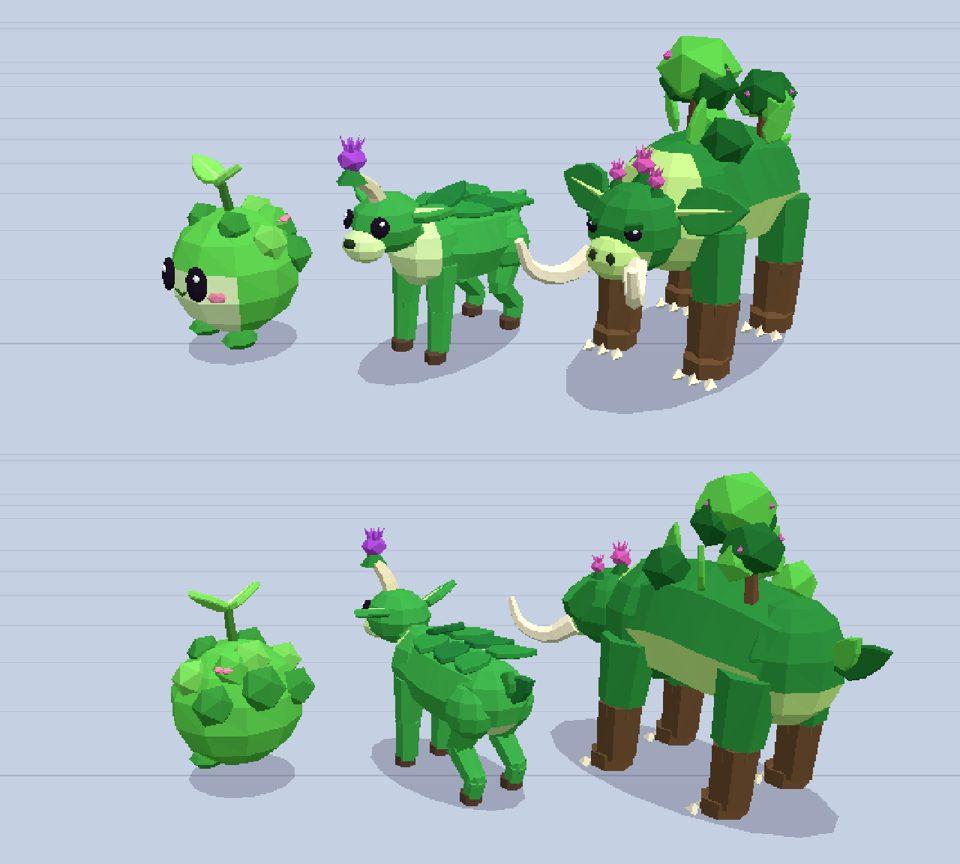
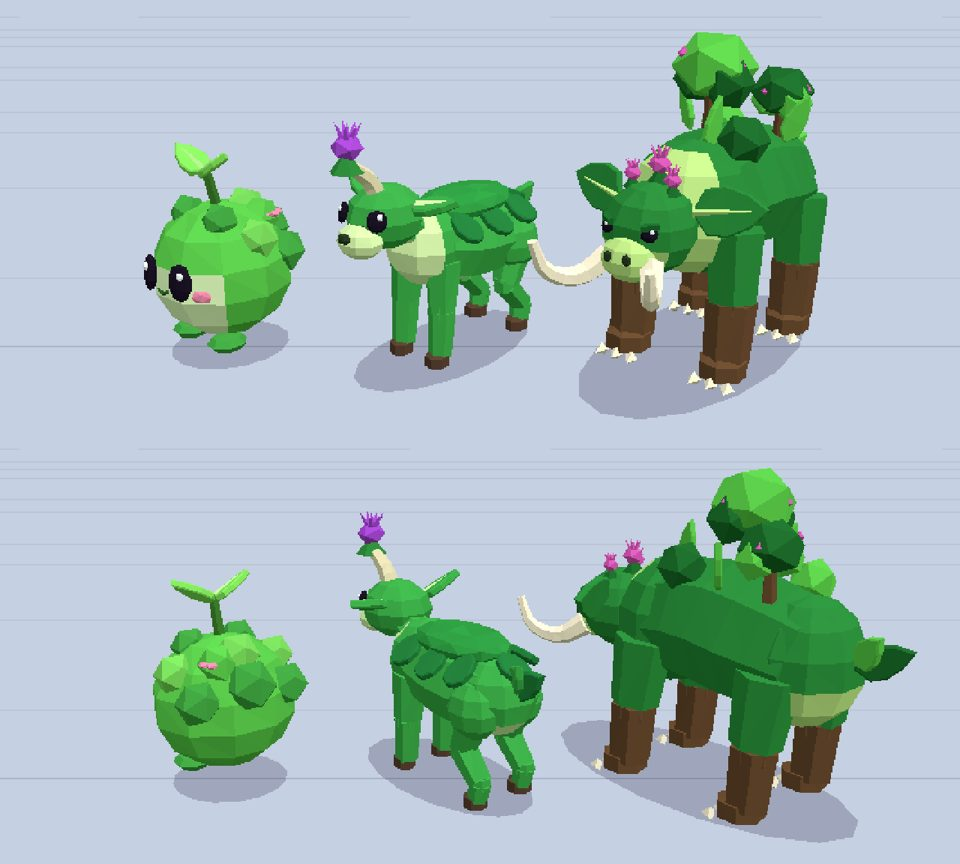
creatures: final polish round — twist-free tubes + per-quad paint (clean Maelstrode belly), Thistlehorn moss mantle, new static-firefly Flickwing, Pebblet/Vulcrag/Mossling cleanups, tight gallery framing; DECISIONS pointer to CREATURES.md
Claude-Session: https://claude.ai/code/session_016JXtcKyTyuZAwfXm5uVZkS

diff --git a/game/src/render/creatures/designs.ts b/game/src/render/creatures/designs.ts
@@ -280,7 +280,7 @@ const maelstrode: Design = {
 const mossling: Design = {
   scale: 0.9, idle: 'bounce',
   build(k) {
-    const main = '#5cc94a', light = '#e9ffc0', dark = '#3a9a3a', pink = '#ff8fb0';
+    const main = '#5cc94a', light = '#e9ffc0', dark = '#43a641', pink = '#ff8fb0';
     const body = k.orb((n, c) => (n.z > 0.5 && c.y < 0.48 ? light : main), [0, 0.42, 0], [0.42, 0.38, 0.4], { w: 10, h: 7, jitter: 0.12 });
     const clumps: [number, number, number, Col][] = [[Math.PI, 0.45, 0.15, dark], [2.3, 0.25, 0.13, dark], [-2.3, 0.25, 0.13, dark], [1.7, 0.6, 0.12, '#7ad85a'], [-1.7, 0.6, 0.12, '#7ad85a'], [Math.PI, 1.0, 0.13, '#7ad85a'], [1.0, 1.05, 0.11, dark], [-1.0, 1.05, 0.11, dark], [2.6, 0.85, 0.12, main]];
     for (const [yaw, pitch, r, c] of clumps) k.ball(c, surface(body, yaw, pitch, 0.92).p, r, { detail: 0, jitter: 0.15 });
@@ -307,13 +307,12 @@ const thistlehorn: Design = {
     k.orb(under(main, belly), [0, 0.63, -0.36], [0.22, 0.22, 0.23]);
     k.tube(under(main, belly, -0.4), [[0, 0.62, -0.42], [0, 0.63, -0.18], [0, 0.66, 0.06], [0, 0.7, 0.2]], (t) => 0.21 + 0.03 * Math.sin(Math.PI * t), { segs: 6, sides: 8 });
     k.orb((n) => (n.z > 0.4 ? belly : main), [0, 0.69, 0.2], [0.22, 0.23, 0.21]);
-    // Leafy saddle shingled along the back.
-    for (let i = 0; i < 3; i++) {
-      const z = 0.06 - i * 0.18;
-      const y = 0.9 - i * 0.012;
-      sym(k, (sx) => leaf(k, i % 2 ? dark : '#2f9a40', V(S(sx, 0.03), y, z), V(S(sx, 0.85), -0.05, -0.55), V(S(sx, 0.1), 1, 0), 0.27, 0.18, 0.04));
+    // Mossy mantle on the back, fringed with rounded leaves that lie flat down the flanks.
+    k.ball('#2f9a40', [0, 0.86, -0.1], [0.2, 0.09, 0.33], { detail: 1, jitter: 0.16 });
+    for (const [z, len] of [[0.12, 0.2], [-0.1, 0.22], [-0.32, 0.2]] as const) {
+      sym(k, (sx) => slabAt(k, dark, petalShape(len, 0.15), 0.04, V(S(sx, 0.12), 0.86, z), V(S(sx, 1), -0.75, -0.15), V(S(sx, 0.75), 1, 0)));
     }
-    leaf(k, dark, V(0, 0.9, 0.14), V(0, 0.35, -1), V(0, 1, 0.3), 0.3, 0.17, 0.04);
+    slabAt(k, dark, petalShape(0.2, 0.15), 0.04, V(0, 0.86, -0.4), V(0, -0.5, -1), V(0, 1, -0.5));
     k.limb((n) => (n.z > 0.45 ? belly : main), V(0, 0.74, 0.22), V(0, 0.87, 0.4), 0.12, 0.1, 7);
     const head = k.orb(main, [0, 0.92, 0.48], [0.19, 0.17, 0.21], { w: 9, h: 6 });
     k.orb(belly, [0, 0.83, 0.65], [0.125, 0.095, 0.11]);
@@ -397,32 +396,41 @@ const verdantusk: Design = {
 const flickwing: Design = {
   scale: 0.9, hover: 0.14, idle: 'float',
   build(k) {
-    const main = '#ffd83a', pale = '#fff6c2', dark = '#2b2b3a', glow = '#fffbe0';
-    const stripes: Paint = (_n, c) => (Math.floor((c.z + 2) * 11) % 2 ? dark : main);
-    k.orb(main, [0, 0.5, 0], [0.24, 0.23, 0.23], { jitter: 0.1 });
-    k.orb(stripes, [0, 0.45, -0.3], [0.19, 0.18, 0.25], { w: 8, h: 6 });
-    k.withRig({ kind: 'flicker', pivot: V(0, 0.42, -0.5), amp: 0.25, speed: 5 }, () => k.orb(glow, [0, 0.42, -0.54], [0.1, 0.1, 0.08], { w: 7, h: 5 }));
-    const head = k.orb(main, [0, 0.58, 0.27], [0.2, 0.19, 0.18], { w: 9, h: 6 });
-    eyes(k, head, { yaw: 0.48, pitch: 0.15, size: 0.075, aspect: 1.22 });
-    mouth(k, head, -0.25, 0.04, '#6a4a10', 0.5);
+    // A static-charged firefly: one round fuzzy body with its fur standing on end, orange wing
+    // cases, pale-cyan buzzing wings, bolt antennae with spark tips and a glowing lantern tail.
+    const main = '#ffd83a', shell = '#ff9f1c', spark = '#7fe8ff', wing = '#dcf6ff', frameC = '#4aa8d8', dark = '#2b2b3a', lamp = '#f6ffb8';
+    const body = k.orb(main, [0, 0.52, 0.05], [0.27, 0.26, 0.26], { w: 10, h: 7, jitter: 0.1 });
+    // Static fur: tufts standing straight up.
+    for (const [yaw, pitch, len] of [[0, 1.25, 0.18], [0.35, 1.05, 0.15], [-0.35, 1.05, 0.15], [0.8, 0.85, 0.12], [-0.8, 0.85, 0.12], [Math.PI, 0.95, 0.12], [2.2, 0.8, 0.1], [-2.2, 0.8, 0.1]] as const) {
+      const s = surface(body, yaw, pitch, 0.9);
+      k.cone(Math.abs(yaw) < 0.5 ? '#fff3a8' : main, s.p, s.p.clone().addScaledVector(s.n.clone().add(V(0, 1.2, 0)).normalize(), len), 0.055, 4);
+    }
+    eyes(k, body, { yaw: 0.42, pitch: 0.05, size: 0.08, aspect: 1.25 });
+    sym(k, (sx) => decal(k, body, S(sx, 0.78), -0.18, 0.045, 0.03, '#ff9a6a'));
+    mouth(k, body, -0.25, 0.045, '#8a5a10', 0.5);
+    // Lantern tail.
+    k.orb(main, [0, 0.47, -0.2], 0.12, { w: 7, h: 5 });
+    k.withRig({ kind: 'flicker', pivot: V(0, 0.44, -0.36), amp: 0.07, speed: 4 }, () => {
+      k.orb((_n, c) => (Math.abs(c.z + 0.36) < 0.035 ? shell : lamp), [0, 0.44, -0.36], [0.19, 0.18, 0.2], { w: 9, h: 6 });
+    });
     sym(k, (sx) => {
-      // Zig-zag lightning antennae.
-      k.withRig({ kind: 'nod', pivot: V(S(sx, 0.08), 0.72, 0.3), amp: 0.12, phase: sx, speed: 3 }, () => {
-        const f = frame(V(S(sx, 0.08), 0.72, 0.3), V(S(sx, 0.35), 1, 0.25), V(0, 0, 1));
+      k.withRig({ kind: 'nod', pivot: V(S(sx, 0.09), 0.74, 0.12), amp: 0.12, phase: sx, speed: 3 }, () => {
+        const f = frame(V(S(sx, 0.09), 0.74, 0.12), V(S(sx, 0.4), 1, 0.15), V(0, 0, 1));
         f.slab(k, dark, sx > 0 ? boltShape(0.3, 0.11) : boltShape(0.3, 0.11).map(([x, y]) => [-x, y] as [number, number]), 0.045);
-        k.orb(main, f.at(0, 0.31), 0.05, { w: 6, h: 4 });
+        k.orb(spark, f.at(0, 0.31), 0.055, { w: 6, h: 4 });
       });
-      // Two pairs of rounded wings: pale panes in a dark frame.
-      k.withRig({ kind: 'flap', pivot: V(S(sx, 0.14), 0.62, -0.02), amp: 0.5, speed: 22 }, () => {
-        const up = frame(V(S(sx, 0.14), 0.62, -0.02), V(S(sx, 1), 0.75, -0.3), V(0, 0.3, 1));
-        const wing: [number, number][] = [[0, 0], [0.13, 0.08], [0.19, 0.3], [0.13, 0.47], [0, 0.52], [-0.1, 0.44], [-0.13, 0.22], [-0.07, 0.05]];
-        up.slab(k, dark, wing.map(([x, y]) => [x * 1.12, y * 1.08] as [number, number]), 0.035);
-        up.slab(k, pale, wing, 0.055);
-        const lo = frame(V(S(sx, 0.13), 0.52, -0.06), V(S(sx, 1), -0.2, -0.3), V(0, 0.3, 1));
-        lo.slab(k, dark, wing.map(([x, y]) => [x * 0.8, y * 0.7] as [number, number]), 0.035);
-        lo.slab(k, pale, wing.map(([x, y]) => [x * 0.68, y * 0.6] as [number, number]), 0.055);
+      // Wing cases, lifted.
+      k.withRig({ kind: 'flap', pivot: V(S(sx, 0.08), 0.7, -0.02), amp: 0.12, speed: 7 }, () => {
+        k.orb((n) => (n.y > 0 ? shell : '#d97a0a'), [S(sx, 0.13), 0.74, -0.14], [0.14, 0.055, 0.24], { rot: [0.3, 0, S(sx, 0.55)], w: 8, h: 4 });
       });
-      for (const z of [0.12, -0.04, -0.2]) k.limb(dark, V(S(sx, 0.12), 0.38, z), V(S(sx, 0.2), 0.2, z + 0.04), 0.03, 0.022, 4);
+      // Buzzing wings: pale cyan panes in a blue frame.
+      k.withRig({ kind: 'flap', pivot: V(S(sx, 0.12), 0.66, -0.06), amp: 0.5, speed: 22 }, () => {
+        const up = frame(V(S(sx, 0.12), 0.66, -0.06), V(S(sx, 1), 0.65, -0.35), V(0, 0.3, 1));
+        const wingS: [number, number][] = [[0, 0], [0.12, 0.08], [0.17, 0.28], [0.12, 0.44], [0, 0.48], [-0.1, 0.4], [-0.12, 0.2], [-0.06, 0.05]];
+        up.slab(k, frameC, wingS.map(([x, y]) => [x * 1.14, y * 1.08] as [number, number]), 0.035);
+        up.slab(k, wing, wingS, 0.055);
+      });
+      for (const z of [0.12, -0.04]) k.limb(dark, V(S(sx, 0.12), 0.34, z), V(S(sx, 0.17), 0.24, z + 0.04), 0.032, 0.026, 4);
     });
   },
 };
@@ -473,7 +481,7 @@ const pebblet: Design = {
   build(k) {
     const main = '#a3825c', light = '#dcc6a2', dark = '#7a6044', crystal = '#6fd0e0';
     const body = k.ball((n, c) => (n.z > 0.45 && c.y < 0.42 ? light : main), [0, 0.34, 0], [0.4, 0.33, 0.37], { jitter: 0.14 });
-    for (const [yaw, pitch, r] of [[1.9, 0.2, 0.1], [-2.1, 0.35, 0.11], [2.8, -0.1, 0.09]] as const) k.ball(dark, surface(body, yaw, pitch, 0.95).p, r, { detail: 0, jitter: 0.1 });
+    for (const [yaw, pitch, r] of [[2.0, -0.35, 0.08], [-2.3, -0.25, 0.085], [2.9, -0.45, 0.07]] as const) k.ball(dark, surface(body, yaw, pitch, 0.95).p, r, { detail: 0, jitter: 0.1 });
     // Crystal sprouts on its back.
     for (const [yaw, pitch, h] of [[Math.PI, 0.8, 0.17], [2.6, 0.55, 0.12], [-2.6, 0.6, 0.13], [Math.PI, 0.35, 0.1]] as const) {
       const s = surface(body, yaw, pitch, 0.9);
@@ -607,7 +615,7 @@ const vulcrag: Design = {
         k.orb(magma, pts[i + 1]!, 0.032, { w: 4, h: 3 });
       }
     };
-    for (const [a, y0, y1, w] of [[0.95, 0.12, 0.62, 0.2], [-0.95, 0.15, 0.7, 0.24], [2.2, 0.1, 0.95, 0.22], [-2.3, 0.12, 0.9, 0.2], [Math.PI, 0.2, 1.1, 0.18], [0.3, 0.12, 0.3, 0.2]] as const) vein(a, y0, y1, w);
+    for (const [a, y0, y1, w] of [[0.95, 0.12, 0.62, 0.2], [-0.95, 0.15, 0.7, 0.24], [2.2, 0.1, 0.95, 0.22], [-2.3, 0.12, 0.9, 0.2], [Math.PI, 0.2, 1.1, 0.18]] as const) vein(a, y0, y1, w);
     // Rocky shoulder plates.
     sym(k, (sx) => k.ball(basalt2, [S(sx, 0.48), 0.86, 0.0], [0.22, 0.2, 0.22], { detail: 0, jitter: 0.12 }));
     for (const [x, y, z, r] of [[0.25, 0.95, -0.3, 0.13], [-0.3, 0.5, -0.45, 0.14], [0.4, 0.35, -0.35, 0.12]] as const) k.ball(basalt2, [x, y, z], r, { detail: 0, jitter: 0.12 });

diff --git a/game/src/render/creatures/kit.ts b/game/src/render/creatures/kit.ts
@@ -8,7 +8,8 @@ import * as THREE from 'three';
 export type V3 = THREE.Vector3 | [number, number, number];
 export type Col = THREE.ColorRepresentation;
 /** A flat colour, or a painter choosing a colour from the face's world normal / centroid. */
-export type Paint = Col | ((n: THREE.Vector3, c: THREE.Vector3) => Col);
+/** Painters get the face normal, centroid and the face's index within the primitive. */
+export type Paint = Col | ((n: THREE.Vector3, c: THREE.Vector3, i: number) => Col);
 
 export const RIG = { none: 0, flap: 1, wag: 2, nod: 3, flicker: 4, blink: 5, twitch: 6, roll: 7 } as const;
 export type RigKind = keyof typeof RIG;
@@ -143,7 +144,7 @@ export class Kit {
       const len = tmpN.length();
       if (!(len > 1e-12)) continue; // degenerate (e.g. sphere poles)
       tmpN.multiplyScalar(1 / len);
-      const base = flat ?? resolve((paint as (n: THREE.Vector3, c: THREE.Vector3) => Col)(tmpN, tmpM.copy(tmpA).add(tmpB).add(tmpC).multiplyScalar(1 / 3)));
+      const base = flat ?? resolve((paint as (n: THREE.Vector3, c: THREE.Vector3, i: number) => Col)(tmpN, tmpM.copy(tmpA).add(tmpB).add(tmpC).multiplyScalar(1 / 3), i / 3));
       this.faceSeed = (this.faceSeed * 1103515245 + 12345) >>> 0;
       let k = 1 + ((this.faceSeed >>> 8) % 1000 / 1000 - 0.5) * jit;
       if (bake) k *= 1 + 0.07 * tmpN.y;
@@ -239,10 +240,13 @@ export class Kit {
     for (let i = 0; i < n; i++) {
       const p = centers[i]!;
       const tan = centers[Math.min(n - 1, i + 1)]!.clone().sub(centers[Math.max(0, i - 1)]!).normalize();
-      let side = new THREE.Vector3().crossVectors(tan, V(0, 1, 0));
-      if (side.lengthSq() < 1e-4) side = prevSide ? prevSide.clone() : V(1, 0, 0);
+      // Parallel transport: carry the previous ring's side vector onto this ring's plane, so the
+      // tube never twists (twisted quads shade as zig-zags at low resolution).
+      let side: THREE.Vector3;
+      if (prevSide) side = prevSide.clone().addScaledVector(tan, -prevSide.dot(tan));
+      else side = new THREE.Vector3().crossVectors(tan, V(0, 1, 0));
+      if (side.lengthSq() < 1e-6) side = new THREE.Vector3().crossVectors(tan, V(1, 0, 0));
       side.normalize();
-      if (prevSide && side.dot(prevSide) < 0) side.negate();
       prevSide = side;
       const up = new THREE.Vector3().crossVectors(side, tan).normalize();
       const r = radii[i]!;
@@ -254,14 +258,24 @@ export class Kit {
       rings.push(ring);
     }
     const posArr: number[] = [];
+    // Each quad is painted as a whole from its smooth radial direction, so colour bands
+    // (bellies, stripes) follow ring edges instead of zig-zagging across triangle pairs.
+    const quadN: THREE.Vector3[] = [];
+    const quadC: THREE.Vector3[] = [];
     const tri = (a: THREE.Vector3, b: THREE.Vector3, c: THREE.Vector3) => posArr.push(a.x, a.y, a.z, b.x, b.y, b.z, c.x, c.y, c.z);
     for (let i = 0; i < n - 1; i++) {
+      const axis = centers[i]!.clone().add(centers[i + 1]!).multiplyScalar(0.5);
       for (let j = 0; j < sides; j++) {
         const a = rings[i]![j]!, b = rings[i]![(j + 1) % sides]!, c = rings[i + 1]![j]!, d = rings[i + 1]![(j + 1) % sides]!;
         tri(a, c, b);
         tri(b, c, d);
+        const qc = a.clone().add(b).add(c).add(d).multiplyScalar(0.25);
+        const qn = qc.clone().sub(axis).normalize();
+        quadN.push(qn, qn);
+        quadC.push(qc, qc);
       }
     }
+    const nQuadTris = quadN.length;
     const cap = (ring: THREE.Vector3[], rev: boolean) => {
       const cen = ring.reduce((s, v) => s.add(v), V(0, 0, 0)).multiplyScalar(1 / ring.length);
       for (let j = 0; j < sides; j++) {
@@ -273,7 +287,10 @@ export class Kit {
     if (o.capEnd ?? true) cap(rings[n - 1]!, true);
     const g = new THREE.BufferGeometry();
     g.setAttribute('position', new THREE.Float32BufferAttribute(posArr, 3));
-    this.geo(g, new THREE.Matrix4(), paint);
+    const smooth: Paint = typeof paint === 'function'
+      ? (fn, fc, i) => (i < nQuadTris ? paint(quadN[i]!, quadC[i]!, i) : paint(fn, fc, i))
+      : paint;
+    this.geo(g, new THREE.Matrix4(), smooth);
     g.dispose();
   }
 

diff --git a/game/src/scenes/model.ts b/game/src/scenes/model.ts
@@ -132,9 +132,19 @@ export class ModelScene extends BaseScene {
       bb.max.y += v.hover;
       bb.min.multiplyScalar(v.baseScale);
       bb.max.multiplyScalar(v.baseScale);
-      // Rotation-agnostic: use the horizontal radius.
-      const r = Math.max(Math.abs(bb.min.x), Math.abs(bb.max.x), Math.abs(bb.min.z), Math.abs(bb.max.z));
-      if (this.mode === 'single') { bb.min.x = bb.min.z = -r; bb.max.x = bb.max.z = r; }
+      if (this.mode === 'single') {
+        if (this.yaw === null) {
+          // Turntable: rotation-agnostic horizontal radius.
+          const r = Math.max(Math.abs(bb.min.x), Math.abs(bb.max.x), Math.abs(bb.min.z), Math.abs(bb.max.z));
+          bb.min.x = bb.min.z = -r; bb.max.x = bb.max.z = r;
+        } else {
+          // Fixed view: frame the model as actually rotated.
+          const q = new THREE.Quaternion().setFromAxisAngle(new THREE.Vector3(0, 1, 0), -this.yaw);
+          const rb = new THREE.Box3();
+          for (const x of [bb.min.x, bb.max.x]) for (const y of [bb.min.y, bb.max.y]) for (const z of [bb.min.z, bb.max.z]) rb.expandByPoint(new THREE.Vector3(x, y, z).applyQuaternion(q));
+          bb.copy(rb);
+        }
+      }
       bb.translate(v.root.position);
       this.box.union(bb);
     }
@@ -169,9 +179,9 @@ export class ModelScene extends BaseScene {
     const size = this.box.getSize(new THREE.Vector3());
     const center = this.box.getCenter(new THREE.Vector3());
     const tanV = Math.tan(THREE.MathUtils.degToRad(cam.fov / 2));
-    const fitH = (size.y * 0.5 + 0.15) / tanV;
-    const fitW = (Math.max(size.x, this.mode === 'single' ? size.z : 0) * 0.5 + 0.2) / (tanV * aspect);
-    const d = Math.max(fitH, fitW) * 1.06 + (this.mode === 'single' ? size.x * 0.25 : size.z * 0.5);
+    const fitH = (size.y * 0.5 + 0.1) / tanV;
+    const fitW = (size.x * 0.5 + 0.12) / (tanV * aspect);
+    const d = Math.max(fitH, fitW) * 1.04 + size.z * 0.5;
     const dir = new THREE.Vector3(0, Math.sin(this.elev), Math.cos(this.elev));
     cam.position.copy(center).addScaledVector(dir, d);
     cam.lookAt(center);

diff --git a/game/docs/CREATURES.md b/game/docs/CREATURES.md
@@ -41,13 +41,13 @@ for `species=`, `view=`, `lineup=`, `battle=1&mine=&foe=`, `anim=`, `theme=`, `l
 | | Concept & silhouette | Signature | Palette |
 |---|---|---|---|
 | **Mossling** | Round mossy puffball with lumpy moss clumps, tiny feet, pink cheeks. | A swaying two-leaf sprout; a tiny pink blossom in the moss. | grass green, pale green face, pink |
-| **Thistlehorn** | Stocky goat/deer grazer with hooves and leaf ears. | One forward horn crowned by a **purple thistle bloom**; shingled leaf saddle on its back. | green, pale lime belly, purple bloom, bone horn |
+| **Thistlehorn** | Stocky goat/deer grazer with hooves and leaf ears. | One forward horn crowned by a **purple thistle bloom**; a mossy mantle on its back fringed with rounded leaves lying flat down the flanks. | green, pale lime belly, purple bloom, bone horn |
 | **Verdantusk** | Massive, low, pillar-legged thicket beast with a heavy brow. | Big curved **ivory tusks**; a grove (two little trees, bushes, ferns, pink blossoms) growing on its back; thistle crown; leaf ears. | deep green, lime belly, bark brown legs, ivory, pink |
 
 ## Spark line — static bug → storm moth
 | | Concept & silhouette | Signature | Palette |
 |---|---|---|---|
-| **Flickwing** | Round fuzzy firefly-beetle with big eyes, fast-buzzing rounded wings. | Zig-zag **lightning-bolt antennae**, glowing tail bulb, pale wing panes in dark frames. | yellow `#ffd83a`, charcoal stripes, pale yellow |
+| **Flickwing** | A static-charged firefly: one round fuzzy body whose fur stands on end, lifted orange wing cases, fast-buzzing pale-cyan wings. | **Glowing lantern tail**, zig-zag lightning-bolt antennae with cyan spark tips, static-fluffed crest. | yellow `#ffd83a`, lantern pale yellow, orange cases, cyan sparks |
 | **Stormoth** | Big moth with wide storm wings held in a V, slower wingbeats, hovers higher. | Indigo wings with a **yellow lightning bolt** and cloud spots, white storm-cloud ruff, feathery antennae. | gold, indigo `#3d2fa0`, violet, cloud white |
 
 ## Terra line — pebble → crystal-fisted boulder

diff --git a/game/docs/DECISIONS.md b/game/docs/DECISIONS.md
@@ -41,6 +41,7 @@ The host repo (`gravity-innovation`) is an unrelated physics project, so the gam
 
 ## Rendering
 - Creature models are procedural: body + parts from primitives, flat-shaded with vertex colours and **merged into one mesh per creature** (1 draw call). Evolution = bigger scale + extra parts + richer palette.
+- Creature designs (concept, silhouette, signature part, palette and stage escalation for all 18 species) live in `docs/CREATURES.md`; bespoke builders in `src/render/creatures/`.
 - Pixel-crisp look: internal render scale 0.5 of the (DPR-capped-at-2) canvas, upscaled with `image-rendering: pixelated`.
 
 ## Number / taste changes vs. the brief
